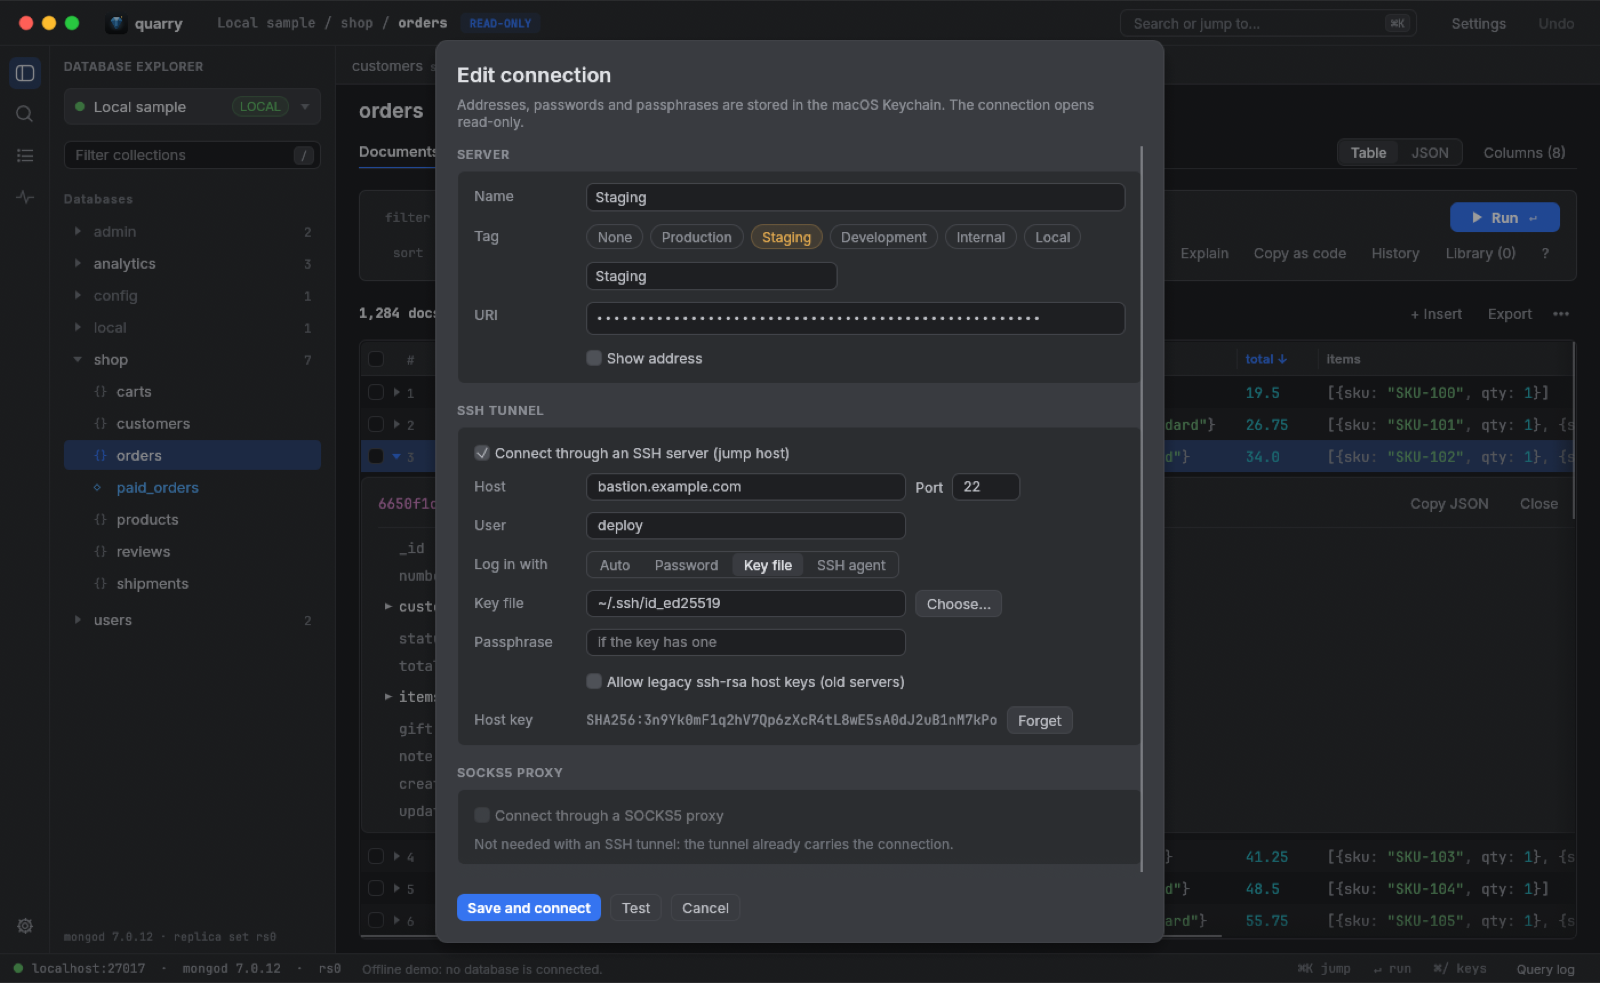
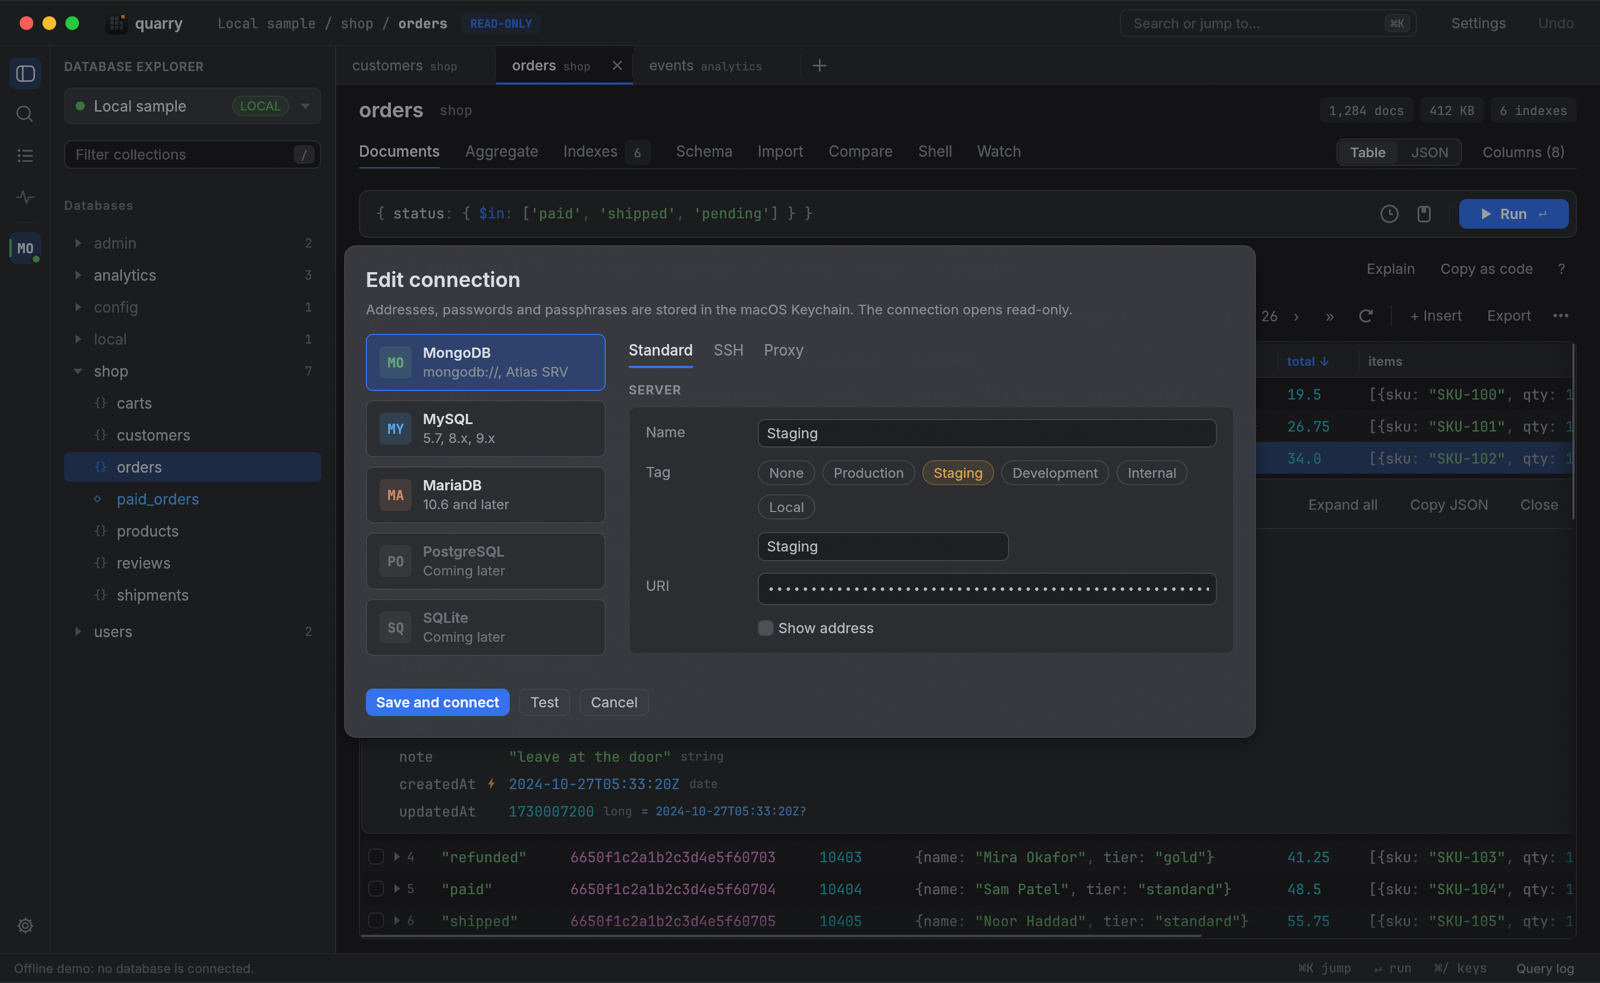
docs: README covers MySQL and MariaDB, with condensed features and new screenshots

diff --git a/README.md b/README.md
@@ -2,66 +2,53 @@
 
 <h1 align="center">Quarry</h1>
 
-<p align="center">A fast, stable and full-featured MongoDB client, written in Rust with egui.<br>Inspired by <a href="https://mingo.io">Mingo</a>.</p>
+<p align="center">A fast, stable and full-featured client for MongoDB, MySQL and MariaDB, written in Rust with egui.<br>Inspired by <a href="https://mingo.io">Mingo</a>.</p>
 
 ![Documents view](docs/documents.png)
 
 ## Features
 
-**Find your way around**
-- Tabs, a table or JSON view, and columns you can pin and reorder for each collection.
-- Paste `db.orders.find(...)` or `aggregate([...])` straight into the query bar.
-- Type `#today` or `#last2months` instead of writing date filters by hand.
-- Keep the queries you reuse in a library, and get back older ones from the history.
-- Press Cmd+K to jump to any collection, and Cmd+/ to see every shortcut. On Linux and Windows, Cmd is Ctrl.
+**One app for every database**
+- MongoDB, MySQL (5.7, 8.x, 9.x) and MariaDB (10.6+) side by side, in tabs with a table or JSON view.
+- Open connections sit in the rail and come back when Quarry starts. Cmd+K jumps to any collection or table, Cmd+/ shows every shortcut (Ctrl on Linux and Windows).
 
 **Edit without worrying**
 - Every connection opens read-only until you unlock it.
-- Edits are staged, saved together, and can be undone.
-- Quarry won't overwrite a change someone else made in the meantime.
-- Preview the result before you update every matching document.
+- Edits are staged, saved together and can be undone, and Quarry won't overwrite a change someone else made meanwhile.
+- Bulk updates, structure changes and drops show exactly what they will run first.
 
-**See what your queries do**
-- Watch a collection's inserts, updates and deletes as they happen (needs a replica set).
-- Build a pipeline one stage at a time and see what comes out of each stage.
-- Read the explain plan of a query or pipeline.
-- Check the server's health and replica set, and find and kill slow operations (Server status, in a database's menu). It asks the server only while that window is open.
-- Watch every command sent to the server, with its duration and errors, in the query log (Cmd+L).
-- Copy a query or pipeline as code for the official MongoDB drivers.
-
-**Look after your collections**
-- See which indexes are used, hide one to see what happens without it, and get suggestions from slow queries.
-- Create indexes with every option: unique, sparse, hidden, TTL, partial filter and collation.
-- See each field's types and how often it appears, and write or generate a validator from that.
-- Follow references: Quarry shows a preview next to an id and opens the document it points to. It can find these relations for you.
-
-**Move data around**
-- Import, and export to JSON, CSV or TSV.
-- Compare two collections and sync the differences.
-- Dump and restore with the MongoDB Database Tools. Quarry installs them if they're missing.
-- Manage users and roles.
+**Query**
+- MongoDB: paste `db.orders.find(...)` or `aggregate([...])`, type `#today` or `#last2months`, build a pipeline one stage at a time with a preview after each, read explain plans, copy as driver code.
+- SQL: filter a table with typed rules or plain SQL. The Query editor runs several statements at once, with autocomplete for tables, columns and values, Format, Explain and Stop.
+- Keep the queries you reuse in a library, and get older ones back from the history.
+- See every command and statement sent, with its duration and errors, in the query log (Cmd+L). Passwords never show.
 
 **Script it**
-- A JavaScript shell running on [Bun](https://bun.sh), with the official MongoDB driver, npm packages and autocomplete. Results come back as a table.
+- A JavaScript shell on [Bun](https://bun.sh), with npm packages and autocomplete: the official driver for MongoDB, `` sql`...` `` templates and typed tables for SQL. Attach other connections to read MongoDB and SQL in one script.
 
-**Also MySQL and MariaDB**
-- Pick MySQL or MariaDB on the connection form's engine cards (MariaDB 10.6+, MySQL 5.7, 8.x and 9.x). Connections open read-only here too.
-- Content filters with typed rules or plain SQL, with edits staged like in MongoDB. Structure and Info show a table's columns, keys and indexes.
-- Query runs several statements at once and can stop one that is running.
-- The Shell takes sql`...` templates, where `${}` values are sent safely, and a typed global for each table.
-- Autocomplete knows your tables, columns and values. `python3 bench.py --sql-only` measures the SQL grid.
+**Shape your data**
+- MongoDB: see which indexes are used and get suggestions, create them with every option, see each field's types, write validators, follow references to the document they point to, and watch changes live.
+- SQL: edit columns, indexes, foreign keys and triggers through a previewed ALTER, click a foreign key to open its row, and create or drop databases and tables.
+
+**Move data around**
+- MongoDB: import and export JSON, CSV or TSV, compare and sync two collections, dump and restore with the Database Tools (installed for you).
+- SQL: import CSV and SQL dumps, and export streamed SQL dumps (gzip optional) or any Copy as format.
+
+**Run the server**
+- Health, status, variables and running operations, with Kill for the slow ones, and users, roles and privileges.
 
 **Connect from anywhere**
-- Go through an SSH tunnel (password, key file or agent) or a SOCKS5 proxy.
+- SSH tunnels (password, key file or agent), SOCKS5 proxies, and TLS.
 - Passwords stay in your system keychain: the macOS Keychain, Windows Credential Manager, or the Secret Service on Linux.
 - Tag connections as Production, Staging or anything you like, so you always know which one you're on.
-- Quarry reconnects to your last connection when it starts.
 
 | | |
 |---|---|
-| ![Editing a document](docs/edit.png) | ![Shell](docs/shell.png) |
+| ![A MySQL table filtered with rules](docs/sql-content.png) | ![SQL Query with several statements](docs/sql-query.png) |
+| ![Structure with staged column and index changes](docs/sql-structure.png) | ![A SQL shell reading a MongoDB connection in the same script](docs/shell-attach.png) |
+| ![Editing a document](docs/edit.png) | ![Aggregation pipeline with a preview after each stage](docs/aggregate.png) |
 | ![Schema](docs/schema.png) | ![Compare and sync](docs/compare.png) |
-| ![Aggregation pipeline with a preview after each stage](docs/aggregate.png) | ![Connection with a tag and an SSH tunnel](docs/connection.png) |
+| ![Server processes](docs/sql-server.png) | ![Connection with a tag and an SSH tunnel](docs/connection.png) |
 
 ## Install
 
@@ -77,7 +64,7 @@ Quarry then updates itself: it checks for new releases shortly after launch and 
 
 ## Build
 
-Needs Rust (stable). The Shell needs [Bun](https://bun.sh), and dump/restore needs the [MongoDB Database Tools](https://www.mongodb.com/docs/database-tools/), which Quarry can install for you. Quarry finds both automatically, or you can set their paths in Settings.
+Needs Rust (stable). The Shell needs [Bun](https://bun.sh), and MongoDB dump/restore needs the [MongoDB Database Tools](https://www.mongodb.com/docs/database-tools/), which Quarry can install for you. Quarry finds both automatically, or you can set their paths in Settings.
 
 ```sh
 cargo run --release      # run it
